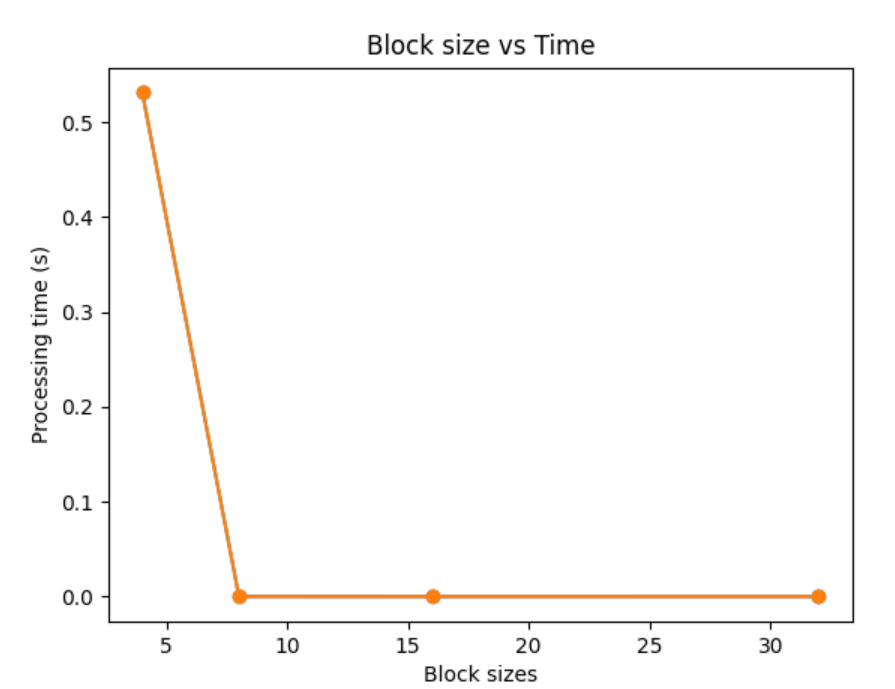
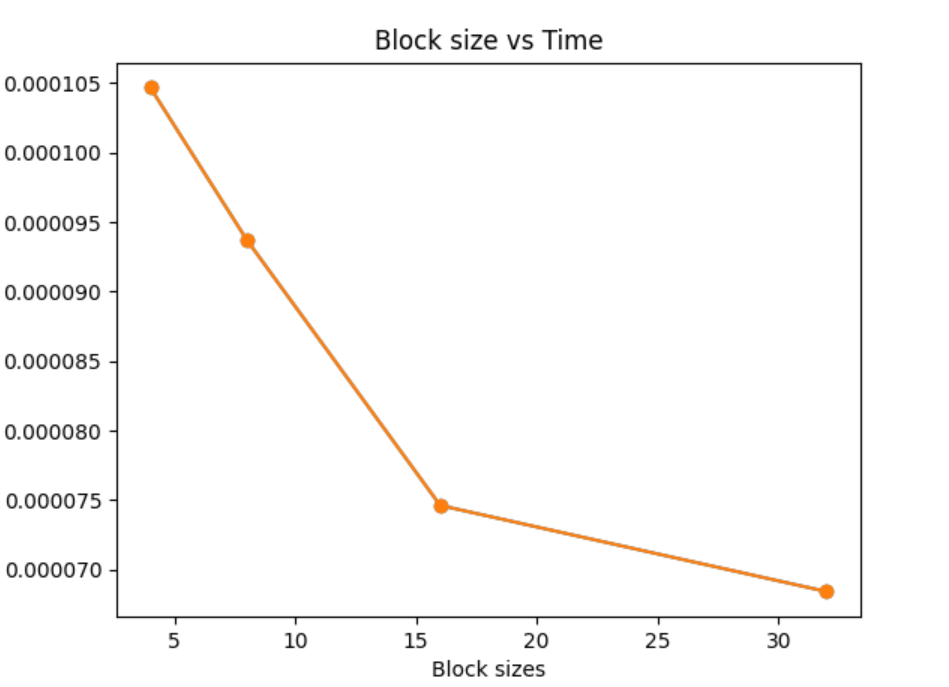
Update code and asset

diff --git a/Labwork 4/labwork4.py b/Labwork 4/labwork4.py
@@ -38,6 +38,9 @@ def grayscale_gpu(rgb, gray):
     gray_value = np.uint8((rgb[tidx, tidy, 0] + rgb[tidx, tidy, 1] + rgb[tidx, tidy, 2]) / 3)
     gray[tidx, tidy, 0] = gray[tidx, tidy, 1] = gray[tidx, tidy, 2] = gray_value
 
+# First run to remove odd
+grayscale_gpu[(math.ceil(img_height / 4), math.ceil(img_width / 4)), (4, 4)](devInput, devOutput)
+
 blockSizes = [(4, 4), (8, 8), (16, 16), (32, 32)]
 responseTimes = []
 for blockSize in blockSizes:
